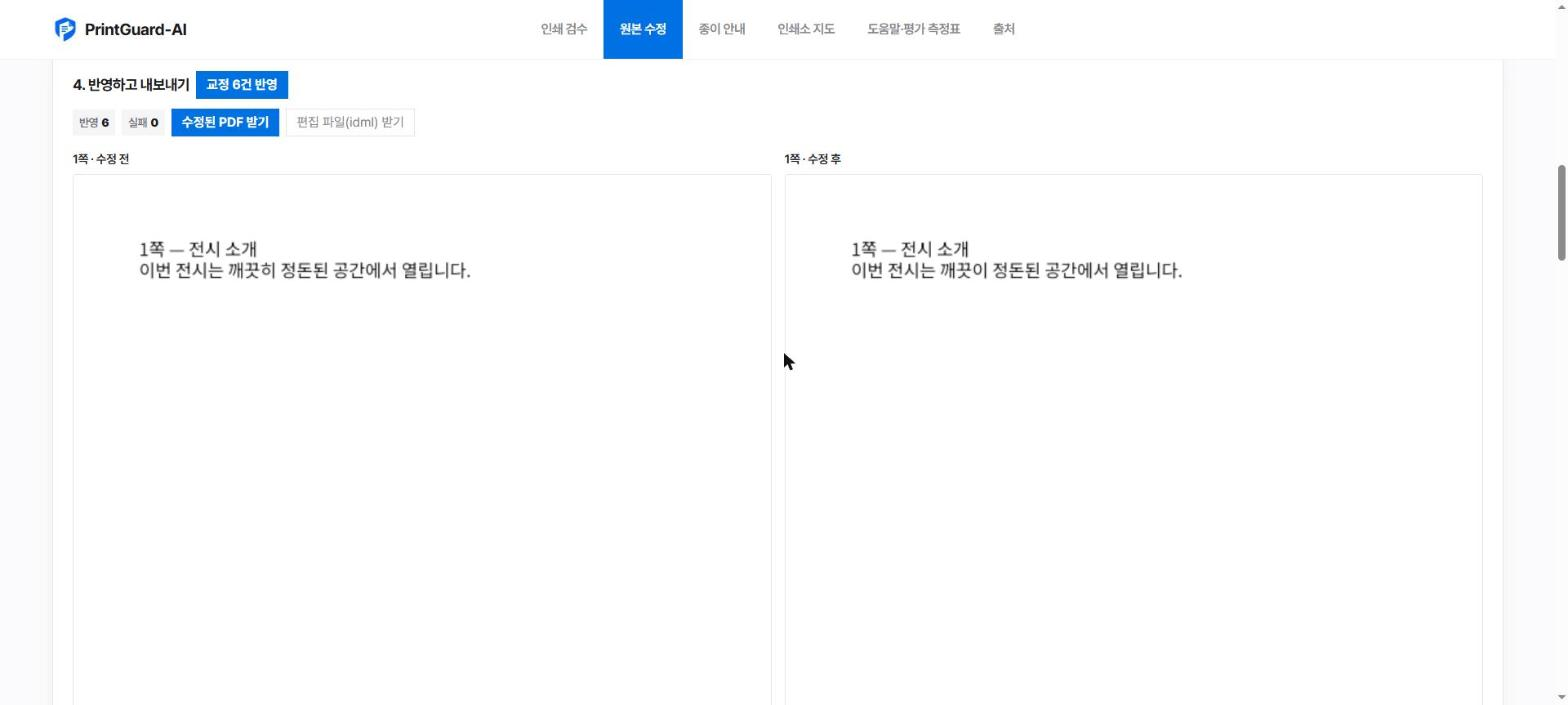
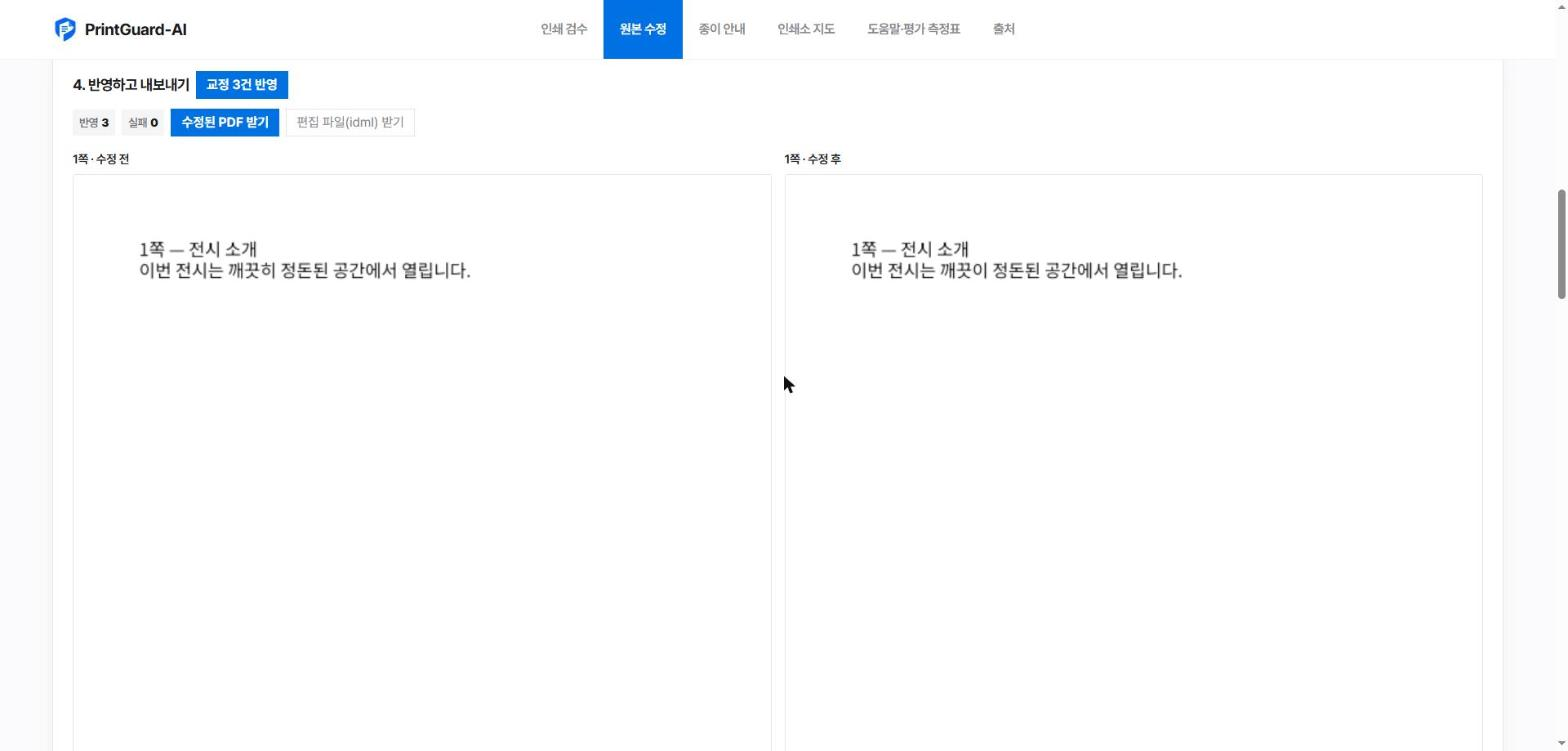
INDD를 받지 않는다. 제목과 못 고치는 것을 앞에 세운다
INDD는 엔진이 읽을 수 있고 교정 반영까지 된다(실파일로 확인했다). 그래도 받지 않기로 한다 —
**고친 결과를 INDD로 돌려줄 수 없어서**다. 올린 사람이 자기 작업 파일을 못 돌려받는데, 반쪽만
되는 것을 되는 것처럼 두면 올려 보고 나서야 알게 된다. IDML로 내보내 올리면 된다.

받지 않는 형식은 '열 수 없는 형식'이라고만 하지 않고 **왜 안 되는지와 다음에 할 일**을 같이
말한다. 그냥 거절하면 IDML로 바꾸면 된다는 것을 모른다.

받는 형식이 전부 같은 형식으로 돌아가게 되어 roundtrip 갈래가 의미를 잃었다. 걷어냈다.

화면:
- 제목을 '인디자인 원본 수정'에서 '원본 수정'으로. 메뉴와 같은 말을 쓴다.
- 못 고치는 것 둘(PDF·INDD)을 머리글에서 뱃지로 줄을 나눠 세운다. 본문에 섞어 두면 읽다 놓친다.
- '쓸 수 있는 도구 보기' 아코디언을 없애고 늘 보이게 한다. 연결됐는지 보러 온 화면에서
  한 번 더 눌러야 할 이유가 없다.

Claude-Session: https://claude.ai/code/session_01LP9xbMm7SoC7Ku49ug9WyR

diff --git a/frontend/app/fix/page.tsx b/frontend/app/fix/page.tsx
@@ -18,7 +18,7 @@ const KIND: Record<string, string> = {
   emptyText: "빈 텍스트 프레임", rgbColor: "인쇄 문서의 RGB 색", unsupportedTypography: "미지원 조판",
   unsupportedGraphicLayers: "미지원 그래픽 레이어",
 };
-const ACCEPT = ".idml,.indd,.indt,.designcraft";
+const ACCEPT = ".idml,.designcraft";
 
 /** 같은 종류는 묶어서 센다 — 넘침 28건을 28줄로 늘어놓으면 읽을 수가 없다. */
 function IssueRows({ rows, empty }: { rows: PreflightIssue[]; empty: string }) {
@@ -155,7 +155,6 @@ export default function FixPage() {
 
   const [mcp, setMcp] = useState<McpStatus | null>(null);
   const [mcpBusy, setMcpBusy] = useState(true);
-  const [showTools, setShowTools] = useState(false);
 
   const [file, setFile] = useState<File | null>(null);
   const [src, setSrc] = useState<SourceView | null>(null);
@@ -216,11 +215,19 @@ export default function FixPage() {
   return (
     <main className="common_wrap">
       <div className="page_head">
-        <h1>인디자인 원본 수정</h1>
+        <h1>원본 수정</h1>
         <p className="lead">
-          <Link href="/">인쇄 검수</Link>에서 복사한 교정 목록을 붙여 넣고 원본(IDML·INDD)을 올리면, DesignCraft가 글자를 찾아
-          고치고 PDF로 다시 내보냅니다. <b>PDF는 고칠 수 없습니다</b> — DesignCraft에서 PDF는 배치만 되고 글자를 집을 수 없어서,
-          고치려면 편집 파일이 있어야 합니다.
+          <Link href="/">인쇄 검수</Link>에서 복사한 교정 목록을 붙여 넣고 편집 파일(IDML)을 올리면, DesignCraft가 글자를 찾아
+          고치고 PDF로 다시 내보냅니다.
+        </p>
+        <p className="cantfix">
+          <span className="nobadge">PDF는 고칠 수 없습니다</span>
+          DesignCraft에서 PDF는 배치만 되고 글자를 집을 수 없습니다. 고치려면 편집 파일이 있어야 합니다.
+        </p>
+        <p className="cantfix">
+          <span className="nobadge">INDD는 고칠 수 없습니다</span>
+          고친 결과를 INDD로 돌려드릴 수 없어서 받지 않습니다. InDesign에서 <b>파일 → 다른 이름으로 저장 → InDesign Markup(IDML)</b>로
+          내보내 올려 주세요.
         </p>
       </div>
 
@@ -243,10 +250,7 @@ export default function FixPage() {
               <span className="chip">방식<b>{mcp.mode === "headless" ? "헤드리스(창 없음)" : mcp.mode}</b></span>
               <span className="chip">도구<b>{mcp.tools?.length ?? 0}</b></span>
             </div>
-            <button type="button" className="gs_toggle" onClick={() => setShowTools((o) => !o)} aria-expanded={showTools}>
-              <GsMark open={showTools} /> 쓸 수 있는 도구 보기
-            </button>
-            {showTools && <div className="dc_tools">{mcp.tools?.map((t) => <code key={t}>{t}</code>)}</div>}
+            <div className="dc_tools">{mcp.tools?.map((t) => <code key={t}>{t}</code>)}</div>
           </>
         )}
       </section>
@@ -263,15 +267,15 @@ export default function FixPage() {
           <tbody>
             <tr><td><code>.idml</code></td><td>O</td><td>고친 <b>PDF + IDML</b></td></tr>
             <tr><td><code>.designcraft</code></td><td>O</td><td>고친 <b>PDF + .designcraft</b></td></tr>
-            <tr><td><code>.indd</code> <code>.indt</code></td><td>O</td>
-              <td>고친 <b>PDF + IDML</b> — <b>INDD로는 돌려드리지 못합니다</b>(DesignCraft가 INDD 내보내기를 지원하지 않습니다)</td></tr>
+            <tr className="no"><td><code>.indd</code> <code>.indt</code></td><td>✕</td>
+              <td>받지 않습니다 — INDD로 돌려드릴 수 없어서입니다. IDML로 내보내 올려 주세요</td></tr>
             <tr className="no"><td><code>.pdf</code></td><td>✕</td><td>받지 않습니다 — PDF는 글자를 집을 수 없습니다</td></tr>
           </tbody>
         </table>
         <div className="dc_row">
           <input type="file" accept={ACCEPT} disabled={!mcp?.available || srcBusy}
             onChange={(e) => { const f = e.target.files?.[0] ?? null; setFile(f); if (f) void upload(f); }} />
-          {srcBusy && <span className="badge">여는 중… (INDD는 변환이 있어 몇 초 걸립니다)</span>}
+          {srcBusy && <span className="badge">여는 중…</span>}
           {file && src && <button type="button" className="pill" onClick={() => void upload(file)} disabled={srcBusy}>다시 열기</button>}
         </div>
 
@@ -285,12 +289,6 @@ export default function FixPage() {
               <span className="chip">넘친 글<b>{src.stories.filter((s) => s.overset).length}</b></span>
             </div>
 
-            {!src.roundtrip && (
-              <p className="warn">
-                읽기는 됐습니다. 다만 <b>INDD로는 돌려드리지 못합니다</b> — 고친 뒤에는 PDF와 IDML로 받습니다.
-                올리신 원본은 그대로 두고 건드리지 않습니다.
-              </p>
-            )}
             {src.missing_fonts.length > 0 && (
               <p className="warn">
                 <b>이 PC에 없는 글꼴 {src.missing_fonts.length}개</b>: {src.missing_fonts.join(", ")} — 대체 글꼴로 열렸습니다.

diff --git a/frontend/app/help/page.tsx b/frontend/app/help/page.tsx
@@ -213,17 +213,17 @@ export default function WhyPage() {
       <QA q="검수에서 찾은 오탈자를 원본 파일에 자동으로 반영할 수 있나요?">
         <Why>검수는 PDF로 하는데 <b>PDF는 고칠 수 없습니다.</b> 인디자인이 만든 PDF에서 글자를 집어 바꾸는 길이 없어서,
           결국 사람이 원본을 열고 하나씩 다시 찾아 고쳐야 했습니다. 항목이 수십 개면 그 과정에서 빠뜨립니다.</Why>
-        <How>검수 결과를 ‘쪽 | 원래 내용 | 수정할 내용’ 줄로 복사해 <b>원본 수정</b> 화면에 붙여 넣고 편집 파일(IDML·INDD)을 올리면,
+        <How>검수 결과를 ‘쪽 | 원래 내용 | 수정할 내용’ 줄로 복사해 <b>원본 수정</b> 화면에 붙여 넣고 편집 파일(IDML)을 올리면,
           DesignCraft를 MCP로 불러 그 글자를 찾아 바꾸고 PDF로 다시 내보냅니다. 교정 한 건마다 <b>다시 찾습니다</b> —
           한글은 글자당 3바이트라 앞을 고치면 뒤 위치가 전부 밀리는데, 다시 찾으면 밀린 자리가 따라옵니다.</How>
         <Result>바뀐 쪽의 <b>수정 전·후를 나란히</b> 보여 주고, 어떤 항목이 반영됐고 무엇이 왜 실패했는지 줄마다 적습니다.
           고친 뒤 원본 검사를 한 번 더 돌립니다 — 한글을 라틴 글꼴 자리에 넣으면 글자가 없고(글리프), 글이 길어지면 넘치기 때문입니다.</Result>
         <Care><b>같은 문구가 여러 군데면 일부러 고치지 않습니다.</b> 어느 것인지 가릴 수 없는데 찍어서 고치면 조용히 틀립니다 — 쪽 번호를 적어 주면 그 쪽에서만 찾습니다.
-          INDD는 읽기만 되어 <b>PDF와 IDML로만 돌려드립니다</b>(올린 원본은 건드리지 않습니다). 원본이 쓰는 글꼴이 그 PC에 없으면 대체 글꼴로 열려
+          <b>INDD는 받지 않습니다</b> — 엔진이 읽을 수는 있지만 고친 결과를 INDD로 돌려드릴 수 없어서입니다. 반쪽만 되는 것을 되는 것처럼 두면 올려 보고 나서야 알게 됩니다. InDesign에서 파일 → 다른 이름으로 저장 → InDesign Markup(IDML)으로 내보내 올려 주세요. 원본이 쓰는 글꼴이 그 PC에 없으면 대체 글꼴로 열려
           줄바꿈과 넘침이 달라집니다 — 화면에 경고로 띄웁니다. 표 안의 글자는 아직 건드리지 않습니다.
           쓰려면 에이전트를 돌리는 PC에 <code>designcraft-cli</code>가 있어야 합니다 — 원본 수정 화면 맨 위에 설치 명령이 복사 버튼과 함께 있습니다.</Care>
         <Shot w={1568} h={705} src="/shots/fix-compare.jpg" alt="교정을 반영한 뒤의 전후 비교 화면"
-          caption="붙여 넣은 교정을 원본에 반영한 뒤. 반영·실패 건수와 내려받기 단추가 위에 있고, 아래로 바뀐 쪽마다 수정 전·후를 나란히 보여 줍니다(1쪽의 ‘깨끗히’가 ‘깨끗이’로 바뀐 자리)." />
+          caption="붙여 넣은 교정을 편집 파일에 반영한 뒤. 반영·실패 건수와 내려받기 단추가 위에 있고, 아래로 바뀐 쪽마다 수정 전·후를 나란히 보여 줍니다(1쪽의 ‘깨끗히’가 ‘깨끗이’로 바뀐 자리)." />
       </QA>
 
       <QA q="파일을 쓰는 것처럼 되돌리기 어려운 행동은 어떻게 막나요?">

diff --git a/frontend/lib/agentClient.ts b/frontend/lib/agentClient.ts
@@ -176,7 +176,7 @@ export const mcpStatus = async () => j<McpStatus>(await fetch(`${orchUrl()}/desi
 
 export type PreflightIssue = { severity: string; kind: string; message: string; page: number | null };
 export type SourceView = {
-  context_id: string; filename: string; pages: number; roundtrip: boolean; pdf_ref: string;
+  context_id: string; filename: string; pages: number; pdf_ref: string;
   stories: { id: number; length: number; overset: boolean; pages: number[]; preview: string }[];
   preflight: PreflightIssue[]; missing_fonts: string[]; open_warnings: string[];
   paragraph_styles: number; swatches: number; png: string;
@@ -192,7 +192,7 @@ export async function uploadSource(file: File): Promise<SourceView> {
 export type ApplyResult = {
   applied: { key?: string; page: number | null; original: string; suggestion: string; story: number; at: [number, number] }[];
   failed: { key?: string; page: number | null; original: string; suggestion: string; reason: string }[];
-  pdf_ref: string; source_out: string | null; roundtrip: boolean;
+  pdf_ref: string; source_out: string | null;
   shots: { page: number; before: string; after: string }[];  // 바뀐 쪽만 찍는다
   shots_total: number;                                        // 바뀐 쪽이 더 있으면 이 수가 더 크다
   preflight_after: PreflightIssue[];

diff --git a/frontend/app/globals.css b/frontend/app/globals.css
@@ -651,3 +651,9 @@ input, select, textarea, button, .icon_btn, .timeline li, .gatelist li, .aitem, 
 .dc_formats tr.no td { color: var(--blackmute); }
 .dc_formats code { font-family: ui-monospace, SFMono-Regular, Menlo, monospace; font-size: 1.4rem;
   background: var(--bgMuted); padding: 2px 6px; border-radius: 3px; }
+
+/* 못 고치는 것은 뱃지로 먼저 말한다 — 본문에 섞어 두면 읽다 놓친다 */
+.cantfix { display: flex; flex-wrap: wrap; align-items: baseline; gap: 8px; margin: 8px 0 0;
+  font-size: 1.6rem; color: var(--blacklight); line-height: 1.7; }
+.nobadge { flex: none; padding: 3px 10px; border-radius: 999px; background: var(--redLight); color: var(--redBright);
+  font-size: 1.4rem; font-weight: 700; }

diff --git a/frontend/app/copy-fixes.tsx b/frontend/app/copy-fixes.tsx
@@ -74,7 +74,7 @@ export default function CopyFixes({ issues, filename, pages, mode }:
           <Link className="pill" href="/fix">원본 수정 →</Link>
           <span className="note">
             {editable > 0
-              ? <>인디자인 원본(IDML·INDD)에서 그 글자를 찾아 고칩니다. <b>PDF는 고칠 수 없습니다.</b></>
+              ? <>편집 파일(IDML)에서 그 글자를 찾아 고칩니다. <b>PDF와 INDD는 고칠 수 없습니다.</b></>
               : "이번 검수에는 기계가 그대로 반영할 교정이 없습니다(여백·수치처럼 사람이 판단할 항목뿐)."}
           </span>
         </div>

diff --git a/agents/pg_agents/designcraft/agent.py b/agents/pg_agents/designcraft/agent.py
@@ -6,8 +6,13 @@
 | 포맷 | 열기 | 내보내기 |
 |---|---|---|
 | `.idml` | O | O |
-| `.indd` / `.indt` | O (indd-utils가 IDML로 변환) | **X** — INDD로는 되돌려 주지 못한다 |
 | `.designcraft` | O | O |
+| `.indd` / `.indt` | **받지 않는다** | — |
+
+INDD는 엔진이 읽을 수는 있다(indd-utils가 IDML로 바꿔 준다). 그래도 받지 않기로 했다. **INDD로는
+되돌려 주지 못하기 때문**이다 — 고친 결과를 PDF와 IDML로만 줄 수 있어서, 올린 사람은 자기 작업
+파일을 못 돌려받는다. 반쪽만 되는 것을 되는 것처럼 두면 올려 보고 나서야 알게 된다.
+InDesign에서 **IDML로 내보내서(파일 → 다른 이름으로 저장 → InDesign Markup) 올리면** 된다.
 
 skill
 - mcp_status     : MCP가 연결되는지, 도구가 몇 개인지 (read)
@@ -34,8 +39,15 @@ from .mcp_client import Mcp, McpError, probe
 
 NAME = "designcraft"
 # 열 수 있는 원본. PDF는 일부러 뺐다 — 열려도 글자를 못 고치므로 받아 두면 거짓 기대만 준다.
-OPENABLE = {".idml": "file.openIdml", ".indd": "file.open", ".indt": "file.open", ".designcraft": "file.open"}
-ROUNDTRIP = {".idml", ".designcraft"}  # 같은 형식으로 돌려줄 수 있는 것
+OPENABLE = {".idml": "file.openIdml", ".designcraft": "file.open"}
+# 받지는 않지만 왜 안 받는지는 말해 줘야 한다. 그냥 "열 수 없는 형식"이라고만 하면 IDML로 바꾸면
+# 된다는 것을 모른다.
+REFUSED = {
+    ".indd": "INDD는 받지 않습니다 — 고친 결과를 INDD로 돌려드릴 수 없어서입니다. "
+             "InDesign에서 파일 → 다른 이름으로 저장 → InDesign Markup(IDML)으로 내보내 올려 주세요.",
+    ".indt": "INDT는 받지 않습니다 — 고친 결과를 INDT로 돌려드릴 수 없어서입니다. IDML로 내보내 올려 주세요.",
+    ".pdf": "PDF는 고칠 수 없습니다 — DesignCraft에서 PDF는 배치만 되고 글자를 집을 수 없습니다.",
+}
 
 CARD = AgentCard.model_validate({
     "name": NAME,
@@ -49,12 +61,12 @@ CARD = AgentCard.model_validate({
          "allowed_requesters": ["orchestrator", "report", "mcp"],
          "input_schema": {"src_ref": "sha256", "filename": "string"},
          "output_schema": {"pages": "number", "stories": "[]", "preflight": "Issue[]", "missing_fonts": "string[]",
-                           "pdf_ref": "sha256", "roundtrip": "boolean"}},
+                           "pdf_ref": "sha256"}},
         {"id": "apply_fixes", "description": "교정 목록을 원본에 반영하고 PDF로 내보낸다(파일 쓰기는 safety를 거친다)", "grade": "A",
          "allowed_requesters": ["orchestrator"],
          "input_schema": {"src_ref": "sha256", "filename": "string",
                           "fixes": "[{page?: number(1부터), original: string, suggestion: string, key?: string}]"},
-         "output_schema": {"applied": "[]", "failed": "[]", "pdf_ref": "sha256", "source_out": "string?",
+         "output_schema": {"applied": "[]", "failed": "[]", "pdf_ref": "sha256", "source_out": "고친 편집 파일 이름",
                            "shots": "[{page, before, after}] 바뀐 쪽의 전후 그림"}},
     ],
 })
@@ -64,6 +76,8 @@ CARD = AgentCard.model_validate({
 def _src_path(src_ref: str, filename: str) -> tuple[Path, str]:
     """저장해 둔 원본의 경로와 확장자. 확장자가 중요하다 — DesignCraft가 이걸로 가져오기 방식을 고른다."""
     ext = Path(filename or "").suffix.lower()
+    if ext in REFUSED:
+        raise ValueError(REFUSED[ext])
     if ext not in OPENABLE:
         raise ValueError(f"열 수 없는 형식입니다: {ext or '(확장자 없음)'} — {', '.join(sorted(OPENABLE))}만 됩니다")
     p = SRC / f"{src_ref}{ext}"
@@ -158,7 +172,7 @@ def _inspect_blocking(src: Path, ext: str, out: Path) -> dict[str, Any]:
         "open_warnings": (warn.get("warnings") or [])[:20],
         "paragraph_styles": len(doc.get("paragraphStyles", [])),
         "swatches": len(doc.get("swatches", [])),
-        "pdf_path": str(pdf), "png": png.name, "roundtrip": ext in ROUNDTRIP,
+        "pdf_path": str(pdf), "png": png.name,
     }
 
 
@@ -273,15 +287,10 @@ def _apply_blocking(src: Path, ext: str, out: Path, fixes: list[dict[str, Any]])
         shot_pages = [p for p in shot_pages if _shot(m, p, out / f"after_p{p}.png")]
         pdf = out / "fixed.pdf"
         m.ex("file.exportPdf", path=str(pdf))
-        source_out = None
-        if ext in ROUNDTRIP:  # INDD로는 못 돌려준다. IDML로 내보내 준다
-            s = out / ("fixed.idml" if ext == ".idml" else "fixed.designcraft")
-            m.ex("file.exportIdml" if ext == ".idml" else "file.saveAs", path=str(s))
-            source_out = s.name
-        elif ext in (".indd", ".indt"):
-            s = out / "fixed.idml"
-            m.ex("file.exportIdml", path=str(s))
-            source_out = s.name
+        # 받는 형식은 둘 다 같은 형식으로 돌려준다
+        s = out / ("fixed.idml" if ext == ".idml" else "fixed.designcraft")
+        m.ex("file.exportIdml" if ext == ".idml" else "file.saveAs", path=str(s))
+        source_out = s.name
         # 고친 뒤 남은 문제도 알려 준다(교정이 넘침을 새로 만들었을 수 있다)
         pf = m.ex("preflight.run", minPpi=150) or {}
     return {"applied": applied, "failed": failed, "pdf_path": str(pdf), "source_out": source_out,
@@ -313,7 +322,6 @@ async def apply_fixes(req: AgentRequest) -> dict[str, Any]:
     out = _job_dir(req.meta.context_id)
     r = await asyncio.to_thread(_apply_blocking, src, ext, out, fixes)
     r["pdf_ref"] = await asyncio.to_thread(_store_pdf, Path(r.pop("pdf_path")))
-    r["roundtrip"] = ext in ROUNDTRIP
     r["decision"] = d
     n, bad = len(r["applied"]), len(r["failed"])
     return {"status": "completed" if not bad else "completed", "outcome": "partial" if bad else None, "output": r,

diff --git a/agents/tests/test_designcraft.py b/agents/tests/test_designcraft.py
@@ -60,10 +60,16 @@ def test_story_pages_survives_missing_bounds_and_pages():
 
 
 # ---------- 입력 검증 ----------
-@pytest.mark.parametrize("name", ["a.pdf", "a.docx", "noext", ""])
-def test_rejects_formats_it_cannot_edit(name):
-    """PDF는 일부러 막는다 — 열려도 글자를 못 고치므로 받아 두면 거짓 기대만 준다."""
+@pytest.mark.parametrize("name", ["a.docx", "noext", ""])
+def test_rejects_unknown_formats(name):
     with pytest.raises(ValueError, match="열 수 없는 형식"):
+        dc._src_path("a" * 64, name)
+
+
+@pytest.mark.parametrize(("name", "why"), [("a.pdf", "글자를 집을 수 없"), ("a.indd", "IDML"), ("a.indt", "IDML")])
+def test_refused_formats_say_what_to_do_instead(name, why):
+    """'열 수 없는 형식'이라고만 하면 IDML로 바꾸면 된다는 것을 모른다. 이유와 다음 할 일을 같이 말한다."""
+    with pytest.raises(ValueError, match=why):
         dc._src_path("a" * 64, name)
 
 
@@ -78,11 +84,12 @@ def test_apply_fixes_rejects_empty_list():
     assert r["status"] == "rejected" and r["outcome"] == "INVALID_INPUT"
 
 
-def test_roundtrip_only_for_formats_that_export_back():
-    """INDD는 읽기만 된다 — 같은 형식으로 돌려줄 수 없다는 것을 카드와 코드가 같이 알고 있어야 한다."""
-    assert ".idml" in dc.ROUNDTRIP and ".designcraft" in dc.ROUNDTRIP
-    assert ".indd" not in dc.ROUNDTRIP and ".indt" not in dc.ROUNDTRIP
-    assert ".indd" in dc.OPENABLE and ".pdf" not in dc.OPENABLE
+def test_only_formats_we_can_hand_back_are_accepted():
+    """받는 것은 **같은 형식으로 돌려줄 수 있는 것**뿐이다. INDD는 엔진이 읽을 수는 있지만
+    INDD로 못 돌려주므로 받지 않는다 — 반쪽만 되는 것을 되는 것처럼 두지 않는다."""
+    assert set(dc.OPENABLE) == {".idml", ".designcraft"}
+    assert set(dc.REFUSED) == {".indd", ".indt", ".pdf"}
+    assert not set(dc.OPENABLE) & set(dc.REFUSED)
 
 
 def test_card_grades():

diff --git a/agents/pg_agents/orchestrator/app.py b/agents/pg_agents/orchestrator/app.py
@@ -288,7 +288,14 @@ async def report(ctx: str, x_pg_client: str | None = Client) -> dict[str, Any]:
 # 의뢰 번호는 PDF 검수(ctx_job_…)와 따로 쓴다(ctx_dc_…). 주인 가리기는 PDF 쪽과 같은 열쇠를 쓴다.
 MAX_SOURCE = max(1, int(os.environ.get("PG_MAX_SOURCE_MB", "60"))) * 1024 * 1024
 MAX_FIXES = max(1, int(os.environ.get("PG_MAX_FIXES", "300")))
-DC_EXT = {".idml", ".indd", ".indt", ".designcraft"}
+# INDD는 받지 않는다 — 고친 결과를 INDD로 돌려줄 수 없어서다(자세한 이유는 designcraft 에이전트에).
+DC_EXT = {".idml", ".designcraft"}
+DC_REFUSED = {
+    ".indd": "INDD는 받지 않습니다 — 고친 결과를 INDD로 돌려드릴 수 없어서입니다. "
+             "InDesign에서 파일 → 다른 이름으로 저장 → InDesign Markup(IDML)으로 내보내 올려 주세요.",
+    ".indt": "INDT는 받지 않습니다 — IDML로 내보내 올려 주세요.",
+    ".pdf": "PDF는 고칠 수 없습니다 — PDF에서는 글자를 집을 수 없습니다. 편집 파일(IDML)을 올려 주세요.",
+}
 DCJOBS: dict[str, dict[str, Any]] = {}
 
 
@@ -321,9 +328,10 @@ async def dc_source(file: UploadFile = File(...), x_pg_client: str | None = Clie
         raise HTTPException(400, "브라우저 열쇠가 없습니다")
     name = file.filename or "source"
     ext = ("." + name.rsplit(".", 1)[-1].lower()) if "." in name else ""
+    if ext in DC_REFUSED:
+        raise HTTPException(400, DC_REFUSED[ext])
     if ext not in DC_EXT:
-        raise HTTPException(400, f"열 수 없는 형식입니다({ext or '확장자 없음'}). {', '.join(sorted(DC_EXT))}만 됩니다. "
-                                 "PDF는 글자를 고칠 수 없어 받지 않습니다")
+        raise HTTPException(400, f"열 수 없는 형식입니다({ext or '확장자 없음'}). {', '.join(sorted(DC_EXT))}만 됩니다")
     buf, size = [], 0
     while blk := await file.read(1 << 20):
         size += len(blk)
